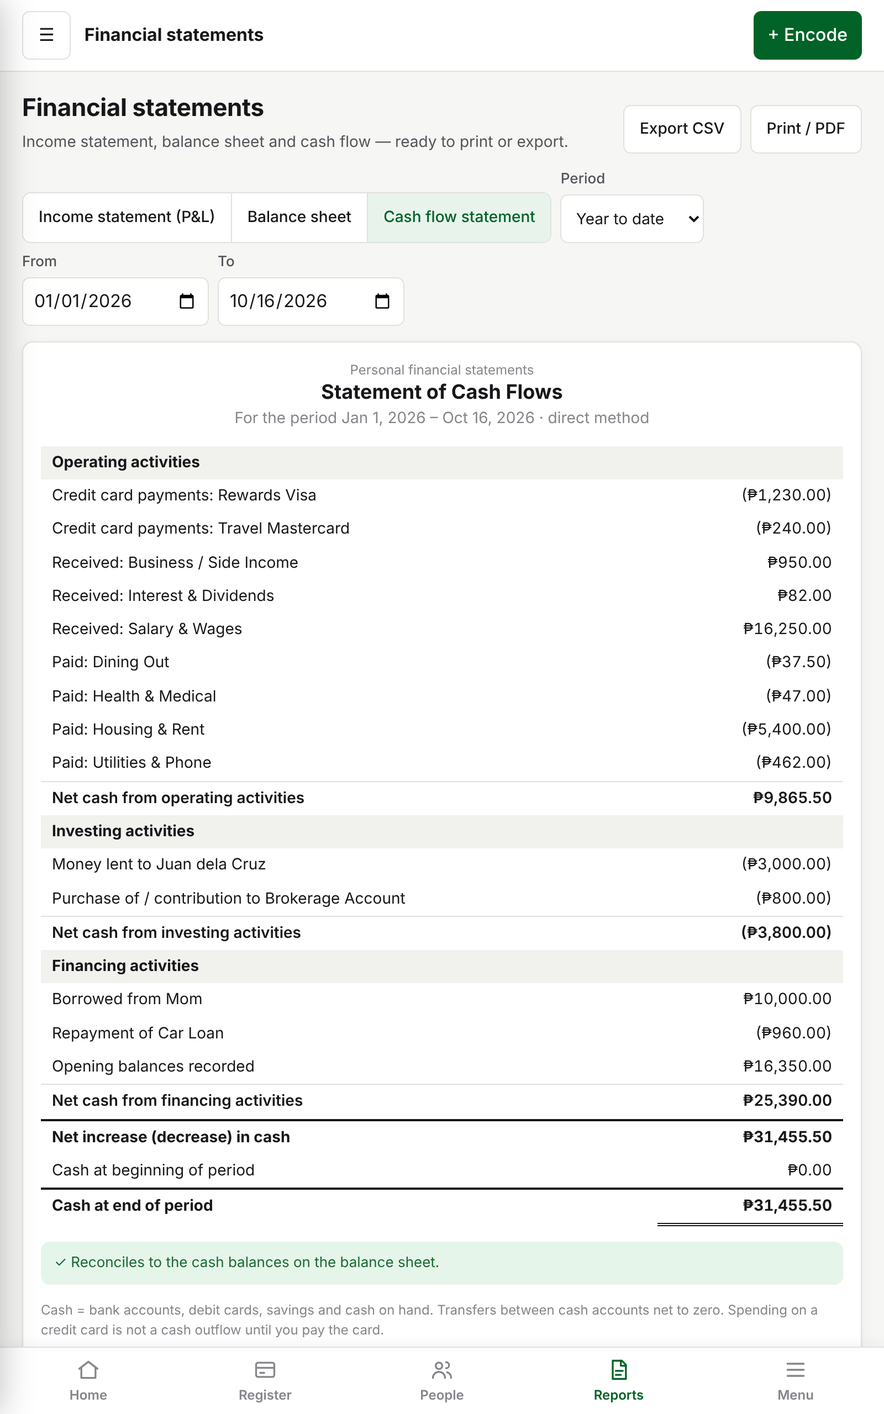
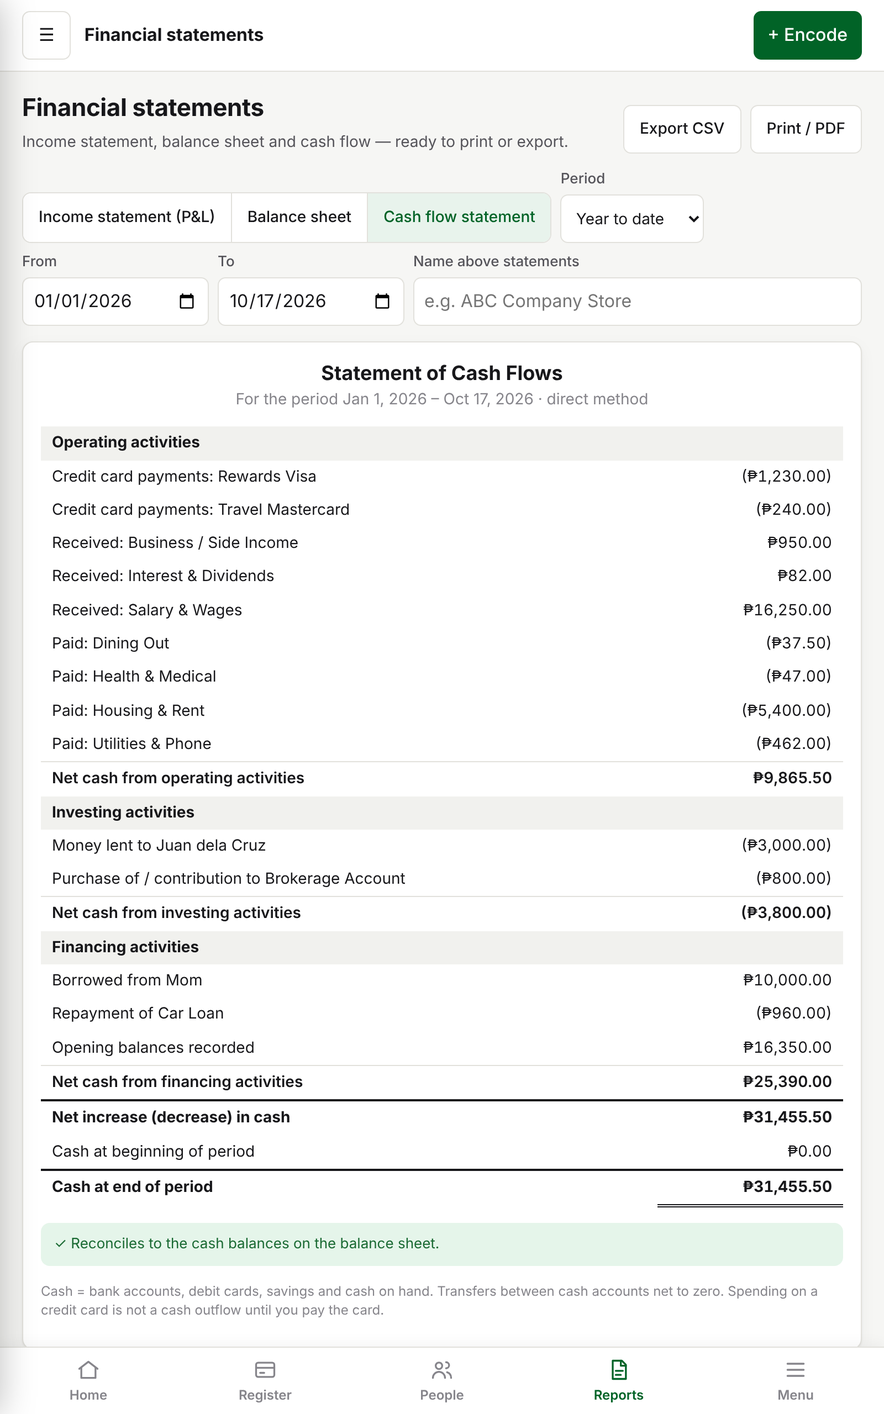
Card-style register tiles for cash and credit cards; name above statements
- Bank register tiles now show only cash & cash equivalents and credit cards;
  other balance-sheet accounts still open from Accounts & cards
- Card tile design: colour + pattern (Classic, Rays, Waves, Minimal), chip,
  contactless mark, bank, type, last 4, name on card, network, balance;
  text colour picked for contrast; optional simple tile; live preview
- Selected card scrolls into view only when hidden
- Entity name (e.g. ABC Company Store) printed prominently above all
  statements and the ledger; editable on the Financial statements page

Claude-Session: https://claude.ai/code/session_01PjvV36iJERTFsZK9ebcWcg

diff --git a/js/app.js b/js/app.js
@@ -449,6 +449,61 @@
     ['#dc2626', 'Red'], ['#ea580c', 'Orange'], ['#ca8a04', 'Gold'], ['#475569', 'Slate'], ['#111827', 'Black'],
   ];
   const isHex = (c) => /^#[0-9a-f]{6}$/i.test(c || '');
+  // Only cash & cash equivalents and credit cards get tiles in the Bank register.
+  const isTileAccount = (a) => !!a && !a.personId && !a.archived && ['cash', 'credit_card'].includes(L.classify(a));
+
+  const CARD_STYLES = [['classic', 'Classic'], ['rays', 'Rays'], ['waves', 'Waves'], ['minimal', 'Minimal']];
+  const CARD_NETWORKS = ['', 'Mastercard', 'Visa', 'JCB', 'American Express', 'UnionPay', 'Bancnet', 'GCash', 'Maya'];
+
+  function defaultCardColor(a) {
+    return L.classify(a) === 'credit_card' ? '#1f2937' : a.subtype === 'savings' ? '#0e7490' : a.subtype === 'cash' ? '#475569' : '#016327';
+  }
+  function hexToRgb(h) { const n = parseInt(h.slice(1), 16); return [(n >> 16) & 255, (n >> 8) & 255, n & 255]; }
+  function shade(h, f) { // f < 0 darkens toward black
+    const [r, g, b] = hexToRgb(h).map((v) => Math.round(f < 0 ? v * (1 + f) : v + (255 - v) * f));
+    return '#' + [r, g, b].map((v) => v.toString(16).padStart(2, '0')).join('');
+  }
+  function luminance(h) {
+    const [r, g, b] = hexToRgb(h).map((v) => { v /= 255; return v <= 0.03928 ? v / 12.92 : Math.pow((v + 0.055) / 1.055, 2.4); });
+    return 0.2126 * r + 0.7152 * g + 0.0722 * b;
+  }
+  function cardTypeLabel(a) {
+    if (L.classify(a) === 'credit_card') return 'credit';
+    return a.subtype === 'savings' ? 'savings' : a.subtype === 'cash' ? 'cash' : 'debit';
+  }
+
+  const CHIP_SVG = '<svg class="cc-chip" viewBox="0 0 40 30" aria-hidden="true"><rect x="1" y="1" width="38" height="28" rx="5" fill="#d9b25f" stroke="#a8823a"/><path d="M1 10h11M1 20h11M28 10h11M28 20h11M12 1v28M28 1v28M12 15h16" stroke="#a8823a" fill="none"/></svg>';
+  const NFC_SVG = '<svg class="cc-nfc" viewBox="0 0 24 24" aria-hidden="true" fill="none" stroke="currentColor" stroke-width="2" stroke-linecap="round"><path d="M8.5 8.5a5 5 0 010 7M12 6a8.5 8.5 0 010 12M15.5 3.5a12 12 0 010 17"/></svg>';
+  const WALLET_SVG = '<svg class="cc-nfc" viewBox="0 0 24 24" aria-hidden="true" fill="none" stroke="currentColor" stroke-width="1.8" stroke-linecap="round" stroke-linejoin="round"><path d="M4 7h14a2 2 0 012 2v9a2 2 0 01-2 2H4z"/><path d="M4 7V6a2 2 0 012-2h10v3"/><circle cx="16" cy="13.5" r="1.2"/></svg>';
+
+  /**
+   * A register tile. Card design (default) looks like a debit/credit card in the account's colour;
+   * the simple design is the plain tile. `tag` is 'a' for a link or 'div' for a preview.
+   */
+  function accountTile(a, balance, opts) {
+    opts = opts || {};
+    const tag = opts.tag || 'a';
+    const href = tag === 'a' ? ' href="#/register?account=' + a.id + '"' : '';
+    const on = opts.selected ? ' on' : '';
+    if (a.tileDesign === 'simple') {
+      return '<' + tag + href + ' class="acct-tile' + on + (isHex(a.color) ? ' has-color' : '') + '"' + (isHex(a.color) ? ' style="--acct-color:' + a.color + '"' : '') + '>' +
+        '<div class="small muted">' + esc(CLASS_LABEL[L.classify(a)]) + '</div><div class="nm">' + esc(displayName(a)) + '</div>' +
+        '<div class="bal">' + money(balance) + '</div></' + tag + '>';
+    }
+    const c = isHex(a.color) ? a.color : defaultCardColor(a);
+    // Pick the text colour with the higher contrast against the card colour.
+    const L1 = luminance(c), ink = (1.05 / (L1 + 0.05)) >= ((L1 + 0.05) / 0.057) ? '#ffffff' : '#141414';
+    const style = CARD_STYLES.some(([k]) => k === a.cardStyle) ? a.cardStyle : 'classic';
+    const isCard = a.subtype !== 'cash';
+    const isCredit = L.classify(a) === 'credit_card';
+    return '<' + tag + href + ' class="acct-tile cc cc-' + style + on + '" style="--c:' + c + ';--c2:' + shade(c, -0.45) + ';--c3:' + shade(c, 0.18) + ';--ink:' + ink + '" aria-label="' + esc(displayName(a)) + ', ' + (isCredit ? 'balance owed ' : 'balance ') + esc(money(balance)) + '">' +
+      '<div class="cc-top"><span class="cc-bank">' + esc(a.institution || a.name) + '</span><span class="cc-type">' + cardTypeLabel(a) + '</span></div>' +
+      '<div class="cc-mid">' + (isCard ? CHIP_SVG + NFC_SVG : WALLET_SVG) + '<span class="cc-bal"><span class="cc-bal-l">' + (isCredit ? 'Balance owed' : 'Balance') + '</span>' + money(balance) + '</span></div>' +
+      '<div class="cc-num">' + (a.last4 ? '•••• •••• •••• ' + esc(a.last4) : esc(a.institution ? a.name : '')) + '</div>' +
+      '<div class="cc-bottom"><span class="cc-holder nm">' + esc((a.holder || a.name).toUpperCase()) + '</span><span class="cc-net">' + esc(a.network || '') + '</span></div>' +
+      '</' + tag + '>';
+  }
+
   /** A small coloured dot for an account (empty when it has no colour). */
   function colorDot(a) { return a && isHex(a.color) ? '<span class="acct-dot" style="--acct-color:' + a.color + '"></span>' : ''; }
 
@@ -813,6 +868,12 @@
       ACCOUNT_COLORS.map(([c, n]) => '<button type="button" class="swatch' + (a && a.color && a.color.toLowerCase() === c ? ' on' : '') + '" data-color="' + c + '" style="--acct-color:' + c + '" title="' + n + '" aria-label="' + n + '"></button>').join('') +
       '<label class="swatch custom' + (a && isHex(a.color) && !ACCOUNT_COLORS.some(([c]) => c === a.color.toLowerCase()) ? ' on' : '') + '" title="Custom colour"><input type="color" id="f-color-custom" value="' + (a && isHex(a.color) ? a.color : '#15803d') + '" aria-label="Custom colour"></label>' +
       '</div><input type="hidden" id="f-color" value="' + esc(a && isHex(a.color) ? a.color : '') + '"></div>' +
+      '<div class="full tile-only"><div class="design-row">' +
+      '<label class="field">Tile design<select id="f-design"><option value="card">Card (like a debit / credit card)</option><option value="simple"' + (a && a.tileDesign === 'simple' ? ' selected' : '') + '>Simple tile</option></select></label>' +
+      '<label class="field card-opt">Card pattern<select id="f-style">' + CARD_STYLES.map(([k, l]) => '<option value="' + k + '"' + (a && a.cardStyle === k ? ' selected' : '') + '>' + l + '</option>').join('') + '</select></label>' +
+      '<label class="field card-opt">Name on card<input id="f-holder" maxlength="40" value="' + esc(a && a.holder || '') + '" placeholder="Shown at the bottom of the card"></label>' +
+      '<label class="field card-opt">Card network<select id="f-network">' + CARD_NETWORKS.map((n) => '<option value="' + esc(n) + '"' + (a && (a.network || '') === n ? ' selected' : '') + '>' + (n || 'None') + '</option>').join('') + '</select></label>' +
+      '</div><div class="small muted" style="margin:8px 0 6px">Preview</div><div id="tile-preview" class="tile-preview"></div></div>' +
       (a ? '' :
         '<label class="field bs">Opening balance<input id="f-open" inputmode="decimal" placeholder="0.00"></label>' +
         '<label class="field bs">As of<input id="f-open-date" type="date" value="' + L.addDays(today(), -1) + '"></label>' +
@@ -838,10 +899,29 @@
     };
     kindSel.onchange = updateKind;
     updateKind();
+    const draftAccount = () => {
+      const [type, subtype] = kindSel.value.split(':');
+      return { id: 'preview', type, subtype, name: $('#f-name', dialog).value.trim() || 'Account name', institution: $('#f-inst', dialog).value.trim(),
+        last4: $('#f-last4', dialog).value.trim(), color: $('#f-color', dialog).value, tileDesign: $('#f-design', dialog).value,
+        cardStyle: $('#f-style', dialog).value, holder: $('#f-holder', dialog).value.trim(), network: $('#f-network', dialog).value };
+    };
+    const updatePreview = () => {
+      const d = draftAccount();
+      const tileable = isTileAccount(d);
+      $$('.tile-only', dialog).forEach((el) => el.classList.toggle('hidden', !tileable));
+      $$('.card-opt', dialog).forEach((el) => el.classList.toggle('hidden', d.tileDesign === 'simple'));
+      if (!tileable) return;
+      const bal = a ? L.balanceOf(book, a.id, { to: today() }) : (L.toCents(($('#f-open', dialog) || {}).value || '0') || 0);
+      $('#tile-preview', dialog).innerHTML = accountTile(d, bal, { tag: 'div', selected: false });
+    };
     const pickColor = (c, el) => {
       $('#f-color', dialog).value = c;
       $$('.swatch', dialog).forEach((x) => x.classList.toggle('on', x === el));
+      updatePreview();
     };
+    ['#f-name', '#f-inst', '#f-last4', '#f-design', '#f-style', '#f-holder', '#f-network', '#f-open'].forEach((sel) => { const el = $(sel, dialog); if (el) el.addEventListener('input', updatePreview); });
+    kindSel.addEventListener('change', updatePreview);
+    updatePreview();
     $$('.swatch[data-color]', dialog).forEach((b) => b.onclick = () => pickColor(b.dataset.color, b));
     $('#f-color-custom', dialog).addEventListener('input', (e) => pickColor(e.target.value, e.target.closest('.swatch')));
     $('#f-name', dialog).focus();
@@ -858,8 +938,10 @@
       if (!name) return dialogError('Name is required.');
       const [type, subtype] = kindSel.value.split(':');
       const color = $('#f-color', dialog).value;
-      const fields = { name, institution: $('#f-inst', dialog).value.trim() || undefined, last4: $('#f-last4', dialog).value.trim() || undefined, color: isHex(color) ? color : undefined };
-      if (!['asset', 'liability'].includes(type)) { delete fields.institution; delete fields.last4; delete fields.color; }
+      const fields = { name, institution: $('#f-inst', dialog).value.trim() || undefined, last4: $('#f-last4', dialog).value.trim() || undefined, color: isHex(color) ? color : undefined,
+        tileDesign: $('#f-design', dialog).value === 'simple' ? 'simple' : undefined, cardStyle: $('#f-style', dialog).value,
+        holder: $('#f-holder', dialog).value.trim() || undefined, network: $('#f-network', dialog).value || undefined };
+      if (!['asset', 'liability'].includes(type)) { ['institution', 'last4', 'color', 'tileDesign', 'cardStyle', 'holder', 'network'].forEach((k) => delete fields[k]); }
       if (a) {
         Object.assign(a, fields);
         if (!a.system) { a.type = type; a.subtype = subtype; }
@@ -1141,11 +1223,15 @@
   }
 
   function renderRegister(accountId) {
-    const bsAccounts = activeAccounts((x) => isBalanceSheet(x) && !x.personId);
-    const a = acct(accountId || regState.accountId || prefs.lastRegister) && isBalanceSheet(acct(accountId || regState.accountId || prefs.lastRegister))
-      ? acct(accountId || regState.accountId || prefs.lastRegister)
-      : bsAccounts.find((x) => L.classify(x) === 'cash' && x.id !== 'acc_cash') || bsAccounts[0];
-    if (!a) { main.innerHTML = '<div class="card empty">Add a bank account or card first.</div>'; return; }
+    // Tiles: cash & cash equivalents and credit cards only. Other balance-sheet accounts
+    // (investments, loans, property…) still open here from Accounts & cards — just without a tile.
+    const tileAccounts = activeAccounts(isTileAccount);
+    const requested = acct(accountId);
+    const remembered = acct(regState.accountId || prefs.lastRegister);
+    const a = requested && isBalanceSheet(requested) && !requested.personId ? requested
+      : isTileAccount(remembered) ? remembered
+        : tileAccounts.find((x) => x.subtype !== 'cash') || tileAccounts[0];
+    if (!a) { main.innerHTML = '<div class="card empty">Add a bank account, debit card or credit card first. <a href="#/accounts">Accounts &amp; cards</a></div>'; return; }
     if (regState.accountId !== a.id) {
       Object.assign(regState, { accountId: a.id, editing: null, error: '', draft: null, stmtDate: '', stmtBal: '' });
     }
@@ -1167,11 +1253,9 @@
     const payees = Array.from(new Set(book.entries.map((e) => (e.description || '').trim()).filter(Boolean))).sort();
 
     // Strip of account tiles (QBO-style bank cards).
-    const strip = '<div class="acct-strip">' + bsAccounts.map((x) =>
-      '<a href="#/register?account=' + x.id + '" class="acct-tile' + (x.id === a.id ? ' on' : '') + (isHex(x.color) ? ' has-color' : '') + '"' + (isHex(x.color) ? ' style="--acct-color:' + x.color + '"' : '') + '>' +
-      '<div class="small muted">' + esc(CLASS_LABEL[L.classify(x)]) + '</div><div class="nm">' + esc(displayName(x)) + '</div>' +
-      '<div class="bal">' + money(bals.get(x.id).balance) + '</div></a>').join('') +
-      '<a href="#/accounts" class="acct-tile add" id="reg-add-acct"><div class="nm">+ Add account / card</div></a></div>';
+    const strip = '<div class="acct-strip">' + tileAccounts.map((x) => accountTile(x, bals.get(x.id).balance, { selected: x.id === a.id })).join('') +
+      '<a href="#/accounts" class="acct-tile add" id="reg-add-acct"><div class="nm">+ Add account / card</div></a></div>' +
+      (isTileAccount(a) ? '' : '<div class="notice" style="background:var(--surface-2);margin:0 0 12px">Viewing <b>' + esc(displayName(a)) + '</b> (' + esc(L.SUBTYPES[a.type][a.subtype] || '') + '). Only bank, cash and credit card accounts have tiles — open other accounts from <a href="#/accounts">Accounts &amp; cards</a>.</div>');
 
     const inputRow = (cls, v) =>
       '<tr class="' + cls + '"' + (v.id ? ' data-id="' + v.id + '"' : '') + '>' +
@@ -1256,6 +1340,11 @@
     $('#reg-sbal').onchange = (e) => { regState.stmtBal = e.target.value; rerender(); };
     $('#reg-import').onclick = () => openImportDialog(a.id);
     $('#reg-edit-acct').onclick = () => openAccountDialog(a.id);
+    const selTile = $('.acct-strip .acct-tile.on');
+    if (selTile) { // bring the selected card into view only when it is hidden off the side
+      const strip = selTile.parentElement, sr = strip.getBoundingClientRect(), tr = selTile.getBoundingClientRect();
+      if (tr.left < sr.left || tr.right > sr.right) strip.scrollLeft += tr.left - sr.left - 16;
+    }
     $('#reg-add-acct').onclick = (e) => { e.preventDefault(); openAccountDialog(); };
 
     // Read-only rows: click to edit inline (splits open the journal editor).
@@ -1927,10 +2016,11 @@
       '<div class="page-head"><div><h1>Financial statements</h1><div class="sub">Income statement, balance sheet and cash flow — ready to print or export.</div></div>' +
       '<div class="btn-row"><button id="st-csv">Export CSV</button><button data-print>Print / PDF</button></div></div>' +
       '<div class="toolbar"><div class="segmented">' + tabs.map(([k, l]) => '<button data-tab="' + k + '" class="' + (stState.tab === k ? 'on' : '') + '">' + l + '</button>').join('') + '</div>' +
-      pt.html + '</div>' +
+      pt.html + '<label class="field" style="flex:1;min-width:220px">Name above statements<input id="st-owner" value="' + esc(book.ownerName || '') + '" placeholder="e.g. ABC Company Store" maxlength="80"></label></div>' +
       '<div class="card statement-card">' + content + '</div>';
     pt.bind(main);
     $$('[data-tab]').forEach((b) => b.onclick = () => { stState.tab = b.dataset.tab; rerender(); });
+    $('#st-owner').onchange = (e) => { book.ownerName = e.target.value.trim() || undefined; commit(); toast(book.ownerName ? 'Name updated' : 'Name removed'); };
     $('#st-csv').onclick = () => {
       const rows = $$('.statement tr').map((tr) => $$('td', tr).map((td) => '"' + td.textContent.trim().replace(/"/g, '""') + '"').join(','));
       download('statement-' + stState.tab + '-' + r.to + '.csv', rows.join('\n'), 'text/csv');
@@ -1938,7 +2028,8 @@
   }
 
   function stHead(title, sub) {
-    return '<div class="st-head"><div class="muted small">' + esc(book.ownerName ? book.ownerName + ' — personal financial statements' : 'Personal financial statements') + '</div><div class="title">' + esc(title) + '</div><div class="muted">' + esc(sub) + '</div></div>';
+    return '<div class="st-head">' + (book.ownerName ? '<div class="st-entity">' + esc(book.ownerName) + '</div>' : '') +
+      '<div class="title">' + esc(title) + '</div><div class="muted">' + esc(sub) + '</div></div>';
   }
   function line(label, cents, cls, opts) {
     opts = opts || {};
@@ -2092,7 +2183,7 @@
       '<div class="grid grid-2">' +
       '<div class="card"><h2>Preferences</h2><div class="form-grid">' +
       '<label class="field">Currency code<input id="s-cur" value="' + esc(book.currency) + '" maxlength="3" placeholder="PHP, USD, EUR…"></label>' +
-      '<label class="field full">Name on reports<input id="s-owner" value="' + esc(book.ownerName || '') + '" placeholder="e.g. Maria Santos — shown at the top of printed statements"></label>' +
+      '<label class="field full">Name above financial statements<input id="s-owner" value="' + esc(book.ownerName || '') + '" placeholder="e.g. ABC Company Store or Maria Santos" maxlength="80"></label>' +
       '<label class="field">Theme<select id="s-theme"><option value="">System</option><option value="light">Light</option><option value="dark">Dark</option></select></label>' +
       '</div></div>' +
       '<div class="card"><h2>Backup &amp; restore</h2>' +
@@ -2162,10 +2253,10 @@
   function sampleBook() {
     const b = L.emptyBook();
     const add = (id, name, type, subtype, extra) => { b.accounts.push(Object.assign({ id, name, type, subtype }, extra || {})); return id; };
-    add('s_chk', 'Everyday Checking (Debit)', 'asset', 'checking', { institution: 'First Bank', last4: '4821', color: '#1d4ed8' });
-    add('s_sav', 'High-Yield Savings', 'asset', 'savings', { institution: 'First Bank', last4: '9930', color: '#0e7490' });
-    add('s_visa', 'Rewards Visa', 'liability', 'credit_card', { institution: 'Card Co', last4: '1007', color: '#111827' });
-    add('s_mc', 'Travel Mastercard', 'liability', 'credit_card', { institution: 'Travel Bank', last4: '5562', color: '#dc2626' });
+    add('s_chk', 'Everyday Checking (Debit)', 'asset', 'checking', { institution: 'First Bank', last4: '4821', color: '#8b1a1a', cardStyle: 'rays', holder: 'Alex Santos', network: 'Mastercard' });
+    add('s_sav', 'High-Yield Savings', 'asset', 'savings', { institution: 'First Bank', last4: '9930', color: '#0e7490', cardStyle: 'waves', holder: 'Alex Santos' });
+    add('s_visa', 'Rewards Visa', 'liability', 'credit_card', { institution: 'Card Co', last4: '1007', color: '#111827', cardStyle: 'classic', holder: 'Alex Santos', network: 'Visa' });
+    add('s_mc', 'Travel Mastercard', 'liability', 'credit_card', { institution: 'Travel Bank', last4: '5562', color: '#ca8a04', cardStyle: 'minimal', holder: 'Alex Santos', network: 'Mastercard' });
     add('s_brk', 'Brokerage Account', 'asset', 'investment', { institution: 'Broker Inc', color: '#7c3aed' });
     add('s_401k', 'Retirement Fund', 'asset', 'retirement', { color: '#ca8a04' });
     add('s_car', 'Car', 'asset', 'vehicle');

diff --git a/css/styles.css b/css/styles.css
@@ -214,6 +214,7 @@ tr.je-end td { padding-top: 2px; padding-bottom: 10px; }
 /* Statements */
 .statement { max-width: 760px; margin: 0 auto; }
 .statement .st-head { text-align: center; margin-bottom: 14px; }
+.statement .st-head .st-entity { font-size: 22px; font-weight: 800; letter-spacing: .02em; text-transform: uppercase; margin-bottom: 4px; }
 .statement .st-head .title { font-size: 18px; font-weight: 700; }
 .statement table td { border-bottom: 0; padding: 5px 10px; }
 .statement tr.rule td { border-top: 1px solid var(--border); }
@@ -273,7 +274,7 @@ dialog::backdrop { background: rgba(10, 10, 12, .45); }
 .gl-table tr.subtotal td { border-top: 1px solid var(--border); padding-bottom: 10px; }
 
 /* Bank register */
-.acct-strip { display: flex; gap: 10px; overflow-x: auto; padding: 2px 2px 12px; margin-bottom: 4px; }
+.acct-strip { display: flex; gap: 12px; overflow-x: auto; padding: 8px 8px 14px; margin: -6px -8px 4px; }
 .acct-tile { flex: 0 0 auto; min-width: 170px; background: var(--surface); border: 1px solid var(--border); border-radius: var(--radius); padding: 10px 14px; color: var(--text); box-shadow: var(--shadow); }
 .acct-tile:hover { border-color: var(--accent); text-decoration: none; }
 .acct-tile.on { border-color: var(--accent); box-shadow: inset 0 0 0 1px var(--accent); }
@@ -289,6 +290,39 @@ dialog::backdrop { background: rgba(10, 10, 12, .45); }
 .swatch.none { background: repeating-linear-gradient(45deg, var(--surface) 0 5px, var(--surface-2) 5px 10px); }
 .swatch.custom { background: conic-gradient(#dc2626, #ca8a04, #15803d, #0e7490, #1d4ed8, #7c3aed, #be185d, #dc2626); overflow: hidden; }
 .swatch.custom input { position: absolute; inset: 0; opacity: 0; width: 100%; height: 100%; min-height: 0 !important; cursor: pointer; border: 0; padding: 0; }
+/* Card-style register tiles */
+.acct-tile.cc { width: 248px; min-width: 248px; aspect-ratio: 1.586; padding: 14px 16px; border: 0; border-radius: 14px; color: var(--ink);
+  display: flex; flex-direction: column; justify-content: space-between; position: relative; overflow: hidden;
+  background: linear-gradient(135deg, var(--c3) 0%, var(--c) 45%, var(--c2) 100%); box-shadow: 0 6px 16px rgba(0, 0, 0, .18); transition: transform .15s, box-shadow .15s; }
+.acct-tile.cc:hover { transform: translateY(-2px); box-shadow: 0 10px 22px rgba(0, 0, 0, .22); }
+.acct-tile.cc.on { outline: 3px solid var(--accent); outline-offset: 3px; }
+.acct-tile.cc-rays { background:
+  repeating-conic-gradient(from 210deg at 112% -12%, rgba(255, 255, 255, .07) 0deg 5deg, rgba(255, 255, 255, 0) 5deg 12deg),
+  radial-gradient(ellipse at 100% 0%, var(--c3) 0%, transparent 60%),
+  linear-gradient(135deg, var(--c) 0%, var(--c2) 100%); }
+.acct-tile.cc-waves { background:
+  radial-gradient(circle at 105% 110%, rgba(255, 255, 255, .16) 0 28%, transparent 28.5%),
+  radial-gradient(circle at 85% 135%, rgba(255, 255, 255, .10) 0 48%, transparent 48.5%),
+  radial-gradient(circle at 60% 160%, rgba(255, 255, 255, .07) 0 66%, transparent 66.5%),
+  linear-gradient(135deg, var(--c) 0%, var(--c2) 100%); }
+.acct-tile.cc-minimal { background: var(--c); }
+.cc-top, .cc-bottom { display: flex; justify-content: space-between; align-items: baseline; gap: 8px; }
+.cc-bank { font-weight: 800; font-size: 16px; letter-spacing: .01em; white-space: nowrap; overflow: hidden; text-overflow: ellipsis; }
+.cc-type { font-weight: 600; font-size: 13px; opacity: .9; text-transform: lowercase; }
+.cc-mid { display: flex; align-items: center; gap: 8px; }
+.cc-chip { width: 34px; height: 26px; flex: none; }
+.cc-nfc { width: 18px; height: 18px; flex: none; opacity: .9; }
+.cc-bal { margin-left: auto; text-align: right; font-weight: 800; font-size: 17px; font-variant-numeric: tabular-nums; line-height: 1.1; }
+.cc-bal-l { display: block; font-size: 10px; font-weight: 600; opacity: .8; text-transform: uppercase; letter-spacing: .06em; }
+.cc-num { font-family: var(--mono); font-size: 14px; letter-spacing: .08em; opacity: .95; min-height: 18px; white-space: nowrap; overflow: hidden; }
+.cc-holder { font-size: 11px; font-weight: 600; letter-spacing: .08em; white-space: nowrap; overflow: hidden; text-overflow: ellipsis; }
+.cc-net { font-size: 11px; font-weight: 800; font-style: italic; letter-spacing: .02em; white-space: nowrap; }
+.acct-strip:has(.cc) .acct-tile.add { width: 160px; min-width: 160px; aspect-ratio: auto; border-radius: 14px; }
+.design-row { display: grid; grid-template-columns: repeat(2, minmax(0, 1fr)); gap: 12px; }
+.tile-preview { display: flex; }
+.tile-preview .acct-tile.cc { cursor: default; }
+.tile-preview .acct-tile.cc:hover { transform: none; }
+@media (max-width: 760px) { .design-row { grid-template-columns: 1fr; } .acct-tile.cc { width: 228px; min-width: 228px; } }
 .acct-tile.add { display: grid; place-items: center; color: var(--accent); border-style: dashed; box-shadow: none; }
 .reg-tools > summary { display: none; }
 .reg-head { display: flex; justify-content: space-between; align-items: flex-end; gap: 12px; flex-wrap: wrap; }

diff --git a/README.md b/README.md
@@ -134,9 +134,26 @@ Bulk changes need a **security code**: **Erase everything**, **Load sample data*
 * **Change it:** go to **Settings → Security code**.
 * **Storage:** the code is kept only as a salted SHA-256 hash on the device. It's never saved in plain text and never included in backup files.
 
-## Account colours
+## Register tiles & card designs
 
-Give each bank account or card a colour: pick one of ten presets or any custom colour. Edit the account from **Accounts & cards** or with the **Edit** link in the Bank register. The colour shows as a stripe on the register tiles and a dot in the account lists.
+* **Which accounts get tiles:** only **cash & cash equivalents** (cash on hand, bank and debit accounts, savings) and **credit cards**. Investments, loans, property and other accounts still work as usual: open their register from **Accounts & cards**.
+* **Card design (default):** each tile looks like a real card:
+  * your chosen colour and pattern (**Classic**, **Rays**, **Waves** or **Minimal**)
+  * a chip and contactless symbol (a wallet symbol for cash on hand)
+  * bank name and card type (debit, savings or credit)
+  * last 4 digits and the name on the card
+  * an optional card network name
+  * the balance (the balance owed, for credit cards)
+* **Text colour:** white or dark, whichever has more contrast against the card's colour.
+* **Simple design:** you can switch any account back to the plain tile.
+* **Editing:** change all of this in the account form, under **Accounts & cards** or the **Edit** link in the register. The form shows a live preview.
+* **Logos:** bank and card-network logos aren't reproduced, because they're trademarks. The names are shown as text.
+
+## Name above financial statements
+
+Set a name, such as **ABC Company Store**, under **Financial statements** (*Name above statements*) or **Settings**.
+* It's printed in capitals above the income statement, balance sheet, cash flow statement, general ledger and statements of account.
+* Leave it empty to show no name.
 
 ## Development
 
